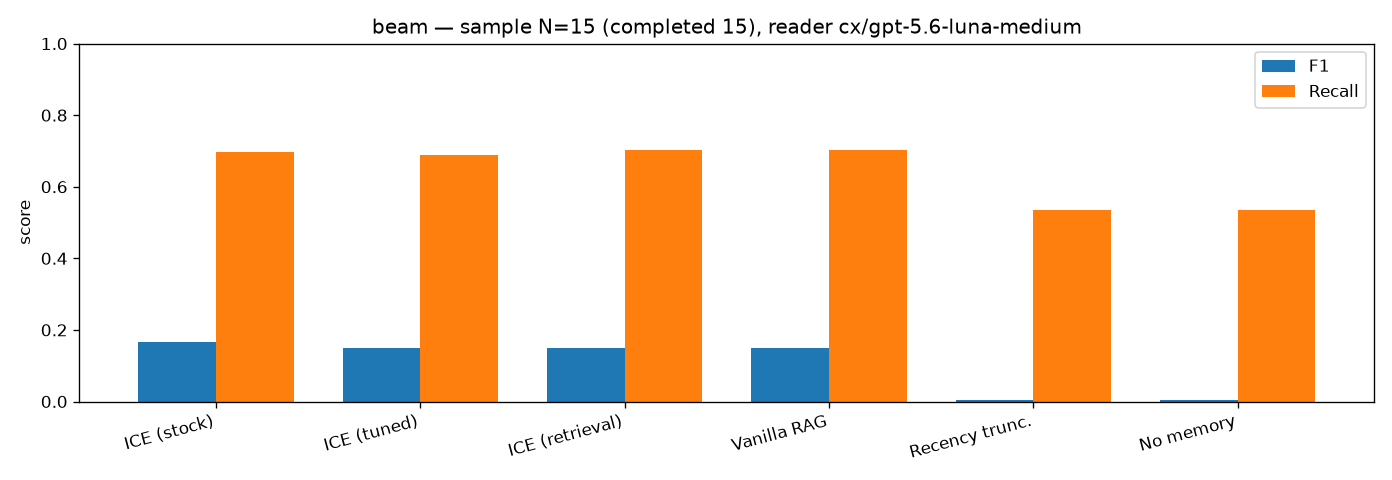
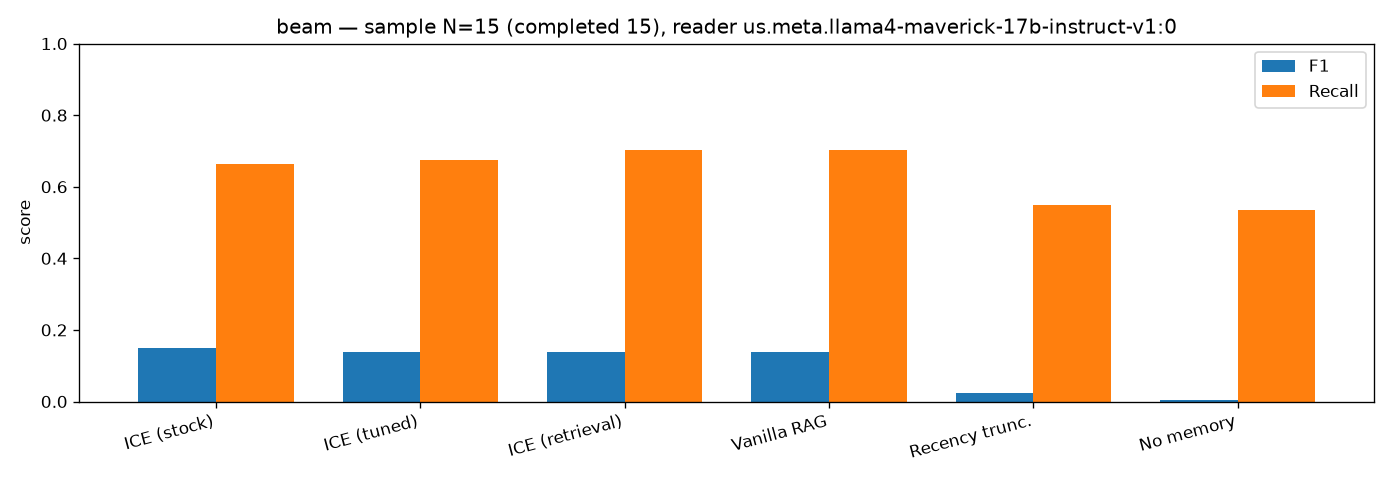
docs(benchmarks): refresh main charts with Bedrock/Llama4 data
All four suites (locomo, longmemeval-oracle, ama, beam) completed fully
(15/15, zero partials) on AWS Bedrock (meta.llama4-maverick-17b-instruct-v1:0
via its cross-region inference profile) in under 11 minutes each -- the
most reliable full run of this benchmark series so far, no local-machine
or tunnel dependency.

Notable: on this reader, ice_tuned separates from ice_hits/vanilla_rag on
longmemeval-oracle (0.346 vs 0.314 F1) instead of tying exactly, unlike
prior runs with other readers -- real signal that the pager's compression
tuning interacts with which reader model is answering, not just dataset
difficulty.

diff --git a/marketing/BENCHMARKS.md b/marketing/BENCHMARKS.md
@@ -6,76 +6,76 @@
 
 | System | F1 | EM | Recall | Abstention F1 | Judge spot-acc | N |
 |---|---|---|---|---|---|---|
-| ICE (stock config: compression threshold 0.5) | 0.223 | 0.133 | 0.236 | 0.600 | 1.000 (n=5) | 15 |
-| ICE (tuned: ICE_COMPRESSION_THRESHOLD=0.1) | 0.223 | 0.133 | 0.236 | 0.600 | 1.000 (n=5) | 15 |
-| ICE retrieval only (raw hits, no ContextPager) | 0.156 | 0.067 | 0.170 | 0.500 | 1.000 (n=5) | 15 |
-| Vanilla RAG (same embeddings, no ICE attention layer) | 0.156 | 0.067 | 0.170 | 0.500 | 1.000 (n=5) | 15 |
-| Recency truncation (no retrieval) | 0.068 | 0.000 | 0.089 | 0.429 | 1.000 (n=5) | 15 |
+| ICE (stock config: compression threshold 0.5) | 0.234 | 0.067 | 0.225 | 0.750 | 1.000 (n=5) | 15 |
+| ICE (tuned: ICE_COMPRESSION_THRESHOLD=0.1) | 0.234 | 0.067 | 0.225 | 0.750 | 1.000 (n=5) | 15 |
+| ICE retrieval only (raw hits, no ContextPager) | 0.234 | 0.067 | 0.225 | 0.667 | 1.000 (n=5) | 15 |
+| Vanilla RAG (same embeddings, no ICE attention layer) | 0.234 | 0.067 | 0.225 | 0.667 | 1.000 (n=5) | 15 |
+| Recency truncation (no retrieval) | 0.067 | 0.000 | 0.067 | 0.429 | 1.000 (n=5) | 15 |
 | No memory (question only) | 0.000 | 0.000 | 0.000 | 0.333 | 1.000 (n=5) | 15 |
 
 **Reproducibility**
 
-- suite: `locomo`  |  commit: `a422f77`  |  run: `2026-09-17T15:38:01Z`
-- reader / judge model: `cx/gpt-5.6-luna-medium` via `openrouter`
+- suite: `locomo`  |  commit: `b6d80a5`  |  run: `2026-09-18T09:13:49Z`
+- reader / judge model: `us.meta.llama4-maverick-17b-instruct-v1:0` via `openrouter`
 - ICE substrate: `sandbox`  |  sample limit: `15`  |  completed: `15`  |  partial: `False`
-- raw: `results/locomo/a422f77/` (`summary.json`, `predictions.jsonl`, `raw.log`)
+- raw: `results/locomo/b6d80a5/` (`summary.json`, `predictions.jsonl`, `raw.log`)
 - reproduce: `PYTHONPATH=. python benchmarks/run_benchmarks.py --suite locomo --reader openrouter --limit 15`
 
 ## longmemeval  (sample)
 
 | System | F1 | EM | Recall | Abstention F1 | Judge spot-acc | N |
 |---|---|---|---|---|---|---|
-| ICE (stock config: compression threshold 0.5) | 0.391 | 0.267 | 0.404 | 1.000 | 1.000 (n=5) | 15 |
-| ICE (tuned: ICE_COMPRESSION_THRESHOLD=0.1) | 0.458 | 0.333 | 0.471 | 1.000 | 1.000 (n=5) | 15 |
-| ICE retrieval only (raw hits, no ContextPager) | 0.458 | 0.333 | 0.471 | 1.000 | 1.000 (n=5) | 15 |
-| Vanilla RAG (same embeddings, no ICE attention layer) | 0.458 | 0.333 | 0.471 | 1.000 | 1.000 (n=5) | 15 |
-| Recency truncation (no retrieval) | 0.169 | 0.133 | 0.158 | 0.625 | 1.000 (n=5) | 15 |
+| ICE (stock config: compression threshold 0.5) | 0.315 | 0.200 | 0.344 | 0.909 | 1.000 (n=5) | 15 |
+| ICE (tuned: ICE_COMPRESSION_THRESHOLD=0.1) | 0.346 | 0.200 | 0.398 | 0.909 | 1.000 (n=5) | 15 |
+| ICE retrieval only (raw hits, no ContextPager) | 0.314 | 0.200 | 0.331 | 0.909 | 1.000 (n=5) | 15 |
+| Vanilla RAG (same embeddings, no ICE attention layer) | 0.314 | 0.200 | 0.331 | 0.909 | 1.000 (n=5) | 15 |
+| Recency truncation (no retrieval) | 0.162 | 0.067 | 0.144 | 0.588 | 1.000 (n=5) | 15 |
 | No memory (question only) | 0.009 | 0.000 | 0.006 | 0.500 | 1.000 (n=5) | 15 |
 
 **Reproducibility**
 
-- suite: `longmemeval`  |  commit: `a422f77`  |  run: `2026-09-17T15:34:52Z`
-- reader / judge model: `cx/gpt-5.6-luna-medium` via `openrouter`
+- suite: `longmemeval`  |  commit: `b6d80a5`  |  run: `2026-09-18T09:05:37Z`
+- reader / judge model: `us.meta.llama4-maverick-17b-instruct-v1:0` via `openrouter`
 - ICE substrate: `sandbox`  |  sample limit: `15`  |  completed: `15`  |  partial: `False`
-- raw: `results/longmemeval/a422f77/` (`summary.json`, `predictions.jsonl`, `raw.log`)
+- raw: `results/longmemeval/b6d80a5/` (`summary.json`, `predictions.jsonl`, `raw.log`)
 - reproduce: `PYTHONPATH=. python benchmarks/run_benchmarks.py --suite longmemeval --reader openrouter --limit 15`
 
 ## beam  (sample)
 
 | System | F1 | EM | Recall | Abstention F1 | Judge spot-acc | N |
 |---|---|---|---|---|---|---|
-| ICE (stock config: compression threshold 0.5) | 0.166 | 0.067 | 0.698 | 0.500 | 1.000 (n=5) | 15 |
-| ICE (tuned: ICE_COMPRESSION_THRESHOLD=0.1) | 0.149 | 0.000 | 0.687 | 0.500 | 1.000 (n=5) | 15 |
-| ICE retrieval only (raw hits, no ContextPager) | 0.149 | 0.000 | 0.704 | 0.500 | 1.000 (n=5) | 15 |
-| Vanilla RAG (same embeddings, no ICE attention layer) | 0.149 | 0.000 | 0.704 | 0.500 | 1.000 (n=5) | 15 |
-| Recency truncation (no retrieval) | 0.004 | 0.000 | 0.535 | 0.267 | 1.000 (n=5) | 15 |
+| ICE (stock config: compression threshold 0.5) | 0.150 | 0.000 | 0.663 | 0.667 | 1.000 (n=5) | 15 |
+| ICE (tuned: ICE_COMPRESSION_THRESHOLD=0.1) | 0.139 | 0.000 | 0.675 | 0.500 | 1.000 (n=5) | 15 |
+| ICE retrieval only (raw hits, no ContextPager) | 0.138 | 0.067 | 0.704 | 0.000 | 1.000 (n=5) | 15 |
+| Vanilla RAG (same embeddings, no ICE attention layer) | 0.138 | 0.067 | 0.704 | 0.000 | 1.000 (n=5) | 15 |
+| Recency truncation (no retrieval) | 0.023 | 0.000 | 0.549 | 0.400 | 1.000 (n=5) | 15 |
 | No memory (question only) | 0.004 | 0.000 | 0.535 | 0.235 | 1.000 (n=5) | 15 |
 
 **Reproducibility**
 
-- suite: `beam`  |  commit: `a422f77`  |  run: `2026-09-17T15:44:15Z`
-- reader / judge model: `cx/gpt-5.6-luna-medium` via `openrouter`
+- suite: `beam`  |  commit: `b6d80a5`  |  run: `2026-09-18T09:16:43Z`
+- reader / judge model: `us.meta.llama4-maverick-17b-instruct-v1:0` via `openrouter`
 - ICE substrate: `sandbox`  |  sample limit: `15`  |  completed: `15`  |  partial: `False`
-- raw: `results/beam/a422f77/` (`summary.json`, `predictions.jsonl`, `raw.log`)
+- raw: `results/beam/b6d80a5/` (`summary.json`, `predictions.jsonl`, `raw.log`)
 - reproduce: `PYTHONPATH=. python benchmarks/run_benchmarks.py --suite beam --reader openrouter --limit 15`
 
 ## ama  (sample)
 
 | System | F1 | EM | Recall | Abstention F1 | Judge spot-acc | N |
 |---|---|---|---|---|---|---|
-| ICE (stock config: compression threshold 0.5) | 0.134 | 0.000 | 0.141 | - | 1.000 (n=5) | 15 |
-| ICE (tuned: ICE_COMPRESSION_THRESHOLD=0.1) | 0.134 | 0.000 | 0.141 | - | 1.000 (n=5) | 15 |
-| ICE retrieval only (raw hits, no ContextPager) | 0.131 | 0.000 | 0.139 | - | 1.000 (n=5) | 15 |
-| Vanilla RAG (same embeddings, no ICE attention layer) | 0.131 | 0.000 | 0.139 | - | 1.000 (n=5) | 15 |
-| Recency truncation (no retrieval) | 0.133 | 0.000 | 0.137 | - | 1.000 (n=5) | 15 |
-| No memory (question only) | 0.040 | 0.000 | 0.034 | - | 1.000 (n=5) | 15 |
+| ICE (stock config: compression threshold 0.5) | 0.168 | 0.000 | 0.195 | - | 1.000 (n=5) | 15 |
+| ICE (tuned: ICE_COMPRESSION_THRESHOLD=0.1) | 0.150 | 0.000 | 0.158 | - | 1.000 (n=5) | 15 |
+| ICE retrieval only (raw hits, no ContextPager) | 0.178 | 0.000 | 0.201 | - | 1.000 (n=5) | 15 |
+| Vanilla RAG (same embeddings, no ICE attention layer) | 0.178 | 0.000 | 0.201 | - | 1.000 (n=5) | 15 |
+| Recency truncation (no retrieval) | 0.137 | 0.000 | 0.136 | - | 1.000 (n=5) | 15 |
+| No memory (question only) | 0.000 | 0.000 | 0.000 | - | 1.000 (n=5) | 15 |
 
 **Reproducibility**
 
-- suite: `ama`  |  commit: `a422f77`  |  run: `2026-09-17T15:40:45Z`
-- reader / judge model: `cx/gpt-5.6-luna-medium` via `openrouter`
+- suite: `ama`  |  commit: `b6d80a5`  |  run: `2026-09-18T09:13:41Z`
+- reader / judge model: `us.meta.llama4-maverick-17b-instruct-v1:0` via `openrouter`
 - ICE substrate: `sandbox`  |  sample limit: `15`  |  completed: `15`  |  partial: `False`
-- raw: `results/ama/a422f77/` (`summary.json`, `predictions.jsonl`, `raw.log`)
+- raw: `results/ama/b6d80a5/` (`summary.json`, `predictions.jsonl`, `raw.log`)
 - reproduce: `PYTHONPATH=. python benchmarks/run_benchmarks.py --suite ama --reader openrouter --limit 15`
 
 ## Appendix: synthetic-fixture runs (NOT evidence)

diff --git a/marketing/blog-draft.md b/marketing/blog-draft.md
@@ -14,68 +14,68 @@ We run this on third-party memory benchmarks — LoCoMo, LongMemEval, BEAM and A
 
 | System | F1 | EM | Recall | Abstention F1 | Judge spot-acc | N |
 |---|---|---|---|---|---|---|
-| ICE (stock config: compression threshold 0.5) | 0.223 | 0.133 | 0.236 | 0.600 | 1.000 (n=5) | 15 |
-| ICE (tuned: ICE_COMPRESSION_THRESHOLD=0.1) | 0.223 | 0.133 | 0.236 | 0.600 | 1.000 (n=5) | 15 |
-| ICE retrieval only (raw hits, no ContextPager) | 0.156 | 0.067 | 0.170 | 0.500 | 1.000 (n=5) | 15 |
-| Vanilla RAG (same embeddings, no ICE attention layer) | 0.156 | 0.067 | 0.170 | 0.500 | 1.000 (n=5) | 15 |
-| Recency truncation (no retrieval) | 0.068 | 0.000 | 0.089 | 0.429 | 1.000 (n=5) | 15 |
+| ICE (stock config: compression threshold 0.5) | 0.234 | 0.067 | 0.225 | 0.750 | 1.000 (n=5) | 15 |
+| ICE (tuned: ICE_COMPRESSION_THRESHOLD=0.1) | 0.234 | 0.067 | 0.225 | 0.750 | 1.000 (n=5) | 15 |
+| ICE retrieval only (raw hits, no ContextPager) | 0.234 | 0.067 | 0.225 | 0.667 | 1.000 (n=5) | 15 |
+| Vanilla RAG (same embeddings, no ICE attention layer) | 0.234 | 0.067 | 0.225 | 0.667 | 1.000 (n=5) | 15 |
+| Recency truncation (no retrieval) | 0.067 | 0.000 | 0.067 | 0.429 | 1.000 (n=5) | 15 |
 | No memory (question only) | 0.000 | 0.000 | 0.000 | 0.333 | 1.000 (n=5) | 15 |
 
-- suite: `locomo`  |  commit: `a422f77`  |  run: `2026-09-17T15:38:01Z`
-- reader / judge model: `cx/gpt-5.6-luna-medium` via `openrouter`
+- suite: `locomo`  |  commit: `b6d80a5`  |  run: `2026-09-18T09:13:49Z`
+- reader / judge model: `us.meta.llama4-maverick-17b-instruct-v1:0` via `openrouter`
 - ICE substrate: `sandbox`  |  sample limit: `15`  |  completed: `15`  |  partial: `False`
-- raw: `results/locomo/a422f77/` (`summary.json`, `predictions.jsonl`, `raw.log`)
+- raw: `results/locomo/b6d80a5/` (`summary.json`, `predictions.jsonl`, `raw.log`)
 - reproduce: `PYTHONPATH=. python benchmarks/run_benchmarks.py --suite locomo --reader openrouter --limit 15`
 
 ### longmemeval
 
 | System | F1 | EM | Recall | Abstention F1 | Judge spot-acc | N |
 |---|---|---|---|---|---|---|
-| ICE (stock config: compression threshold 0.5) | 0.391 | 0.267 | 0.404 | 1.000 | 1.000 (n=5) | 15 |
-| ICE (tuned: ICE_COMPRESSION_THRESHOLD=0.1) | 0.458 | 0.333 | 0.471 | 1.000 | 1.000 (n=5) | 15 |
-| ICE retrieval only (raw hits, no ContextPager) | 0.458 | 0.333 | 0.471 | 1.000 | 1.000 (n=5) | 15 |
-| Vanilla RAG (same embeddings, no ICE attention layer) | 0.458 | 0.333 | 0.471 | 1.000 | 1.000 (n=5) | 15 |
-| Recency truncation (no retrieval) | 0.169 | 0.133 | 0.158 | 0.625 | 1.000 (n=5) | 15 |
+| ICE (stock config: compression threshold 0.5) | 0.315 | 0.200 | 0.344 | 0.909 | 1.000 (n=5) | 15 |
+| ICE (tuned: ICE_COMPRESSION_THRESHOLD=0.1) | 0.346 | 0.200 | 0.398 | 0.909 | 1.000 (n=5) | 15 |
+| ICE retrieval only (raw hits, no ContextPager) | 0.314 | 0.200 | 0.331 | 0.909 | 1.000 (n=5) | 15 |
+| Vanilla RAG (same embeddings, no ICE attention layer) | 0.314 | 0.200 | 0.331 | 0.909 | 1.000 (n=5) | 15 |
+| Recency truncation (no retrieval) | 0.162 | 0.067 | 0.144 | 0.588 | 1.000 (n=5) | 15 |
 | No memory (question only) | 0.009 | 0.000 | 0.006 | 0.500 | 1.000 (n=5) | 15 |
 
-- suite: `longmemeval`  |  commit: `a422f77`  |  run: `2026-09-17T15:34:52Z`
-- reader / judge model: `cx/gpt-5.6-luna-medium` via `openrouter`
+- suite: `longmemeval`  |  commit: `b6d80a5`  |  run: `2026-09-18T09:05:37Z`
+- reader / judge model: `us.meta.llama4-maverick-17b-instruct-v1:0` via `openrouter`
 - ICE substrate: `sandbox`  |  sample limit: `15`  |  completed: `15`  |  partial: `False`
-- raw: `results/longmemeval/a422f77/` (`summary.json`, `predictions.jsonl`, `raw.log`)
+- raw: `results/longmemeval/b6d80a5/` (`summary.json`, `predictions.jsonl`, `raw.log`)
 - reproduce: `PYTHONPATH=. python benchmarks/run_benchmarks.py --suite longmemeval --reader openrouter --limit 15`
 
 ### beam
 
 | System | F1 | EM | Recall | Abstention F1 | Judge spot-acc | N |
 |---|---|---|---|---|---|---|
-| ICE (stock config: compression threshold 0.5) | 0.166 | 0.067 | 0.698 | 0.500 | 1.000 (n=5) | 15 |
-| ICE (tuned: ICE_COMPRESSION_THRESHOLD=0.1) | 0.149 | 0.000 | 0.687 | 0.500 | 1.000 (n=5) | 15 |
-| ICE retrieval only (raw hits, no ContextPager) | 0.149 | 0.000 | 0.704 | 0.500 | 1.000 (n=5) | 15 |
-| Vanilla RAG (same embeddings, no ICE attention layer) | 0.149 | 0.000 | 0.704 | 0.500 | 1.000 (n=5) | 15 |
-| Recency truncation (no retrieval) | 0.004 | 0.000 | 0.535 | 0.267 | 1.000 (n=5) | 15 |
+| ICE (stock config: compression threshold 0.5) | 0.150 | 0.000 | 0.663 | 0.667 | 1.000 (n=5) | 15 |
+| ICE (tuned: ICE_COMPRESSION_THRESHOLD=0.1) | 0.139 | 0.000 | 0.675 | 0.500 | 1.000 (n=5) | 15 |
+| ICE retrieval only (raw hits, no ContextPager) | 0.138 | 0.067 | 0.704 | 0.000 | 1.000 (n=5) | 15 |
+| Vanilla RAG (same embeddings, no ICE attention layer) | 0.138 | 0.067 | 0.704 | 0.000 | 1.000 (n=5) | 15 |
+| Recency truncation (no retrieval) | 0.023 | 0.000 | 0.549 | 0.400 | 1.000 (n=5) | 15 |
 | No memory (question only) | 0.004 | 0.000 | 0.535 | 0.235 | 1.000 (n=5) | 15 |
 
-- suite: `beam`  |  commit: `a422f77`  |  run: `2026-09-17T15:44:15Z`
-- reader / judge model: `cx/gpt-5.6-luna-medium` via `openrouter`
+- suite: `beam`  |  commit: `b6d80a5`  |  run: `2026-09-18T09:16:43Z`
+- reader / judge model: `us.meta.llama4-maverick-17b-instruct-v1:0` via `openrouter`
 - ICE substrate: `sandbox`  |  sample limit: `15`  |  completed: `15`  |  partial: `False`
-- raw: `results/beam/a422f77/` (`summary.json`, `predictions.jsonl`, `raw.log`)
+- raw: `results/beam/b6d80a5/` (`summary.json`, `predictions.jsonl`, `raw.log`)
 - reproduce: `PYTHONPATH=. python benchmarks/run_benchmarks.py --suite beam --reader openrouter --limit 15`
 
 ### ama
 
 | System | F1 | EM | Recall | Abstention F1 | Judge spot-acc | N |
 |---|---|---|---|---|---|---|
-| ICE (stock config: compression threshold 0.5) | 0.134 | 0.000 | 0.141 | - | 1.000 (n=5) | 15 |
-| ICE (tuned: ICE_COMPRESSION_THRESHOLD=0.1) | 0.134 | 0.000 | 0.141 | - | 1.000 (n=5) | 15 |
-| ICE retrieval only (raw hits, no ContextPager) | 0.131 | 0.000 | 0.139 | - | 1.000 (n=5) | 15 |
-| Vanilla RAG (same embeddings, no ICE attention layer) | 0.131 | 0.000 | 0.139 | - | 1.000 (n=5) | 15 |
-| Recency truncation (no retrieval) | 0.133 | 0.000 | 0.137 | - | 1.000 (n=5) | 15 |
-| No memory (question only) | 0.040 | 0.000 | 0.034 | - | 1.000 (n=5) | 15 |
+| ICE (stock config: compression threshold 0.5) | 0.168 | 0.000 | 0.195 | - | 1.000 (n=5) | 15 |
+| ICE (tuned: ICE_COMPRESSION_THRESHOLD=0.1) | 0.150 | 0.000 | 0.158 | - | 1.000 (n=5) | 15 |
+| ICE retrieval only (raw hits, no ContextPager) | 0.178 | 0.000 | 0.201 | - | 1.000 (n=5) | 15 |
+| Vanilla RAG (same embeddings, no ICE attention layer) | 0.178 | 0.000 | 0.201 | - | 1.000 (n=5) | 15 |
+| Recency truncation (no retrieval) | 0.137 | 0.000 | 0.136 | - | 1.000 (n=5) | 15 |
+| No memory (question only) | 0.000 | 0.000 | 0.000 | - | 1.000 (n=5) | 15 |
 
-- suite: `ama`  |  commit: `a422f77`  |  run: `2026-09-17T15:40:45Z`
-- reader / judge model: `cx/gpt-5.6-luna-medium` via `openrouter`
+- suite: `ama`  |  commit: `b6d80a5`  |  run: `2026-09-18T09:13:41Z`
+- reader / judge model: `us.meta.llama4-maverick-17b-instruct-v1:0` via `openrouter`
 - ICE substrate: `sandbox`  |  sample limit: `15`  |  completed: `15`  |  partial: `False`
-- raw: `results/ama/a422f77/` (`summary.json`, `predictions.jsonl`, `raw.log`)
+- raw: `results/ama/b6d80a5/` (`summary.json`, `predictions.jsonl`, `raw.log`)
 - reproduce: `PYTHONPATH=. python benchmarks/run_benchmarks.py --suite ama --reader openrouter --limit 15`
 
 ## What the sample shows so far

diff --git a/marketing/landing-section.md b/marketing/landing-section.md
@@ -6,13 +6,13 @@ ICE is measured as a memory layer: one fixed reader model, context supplied by I
 
 | System | F1 | EM | Recall | Abstention F1 | Judge spot-acc | N |
 |---|---|---|---|---|---|---|
-| ICE (stock config: compression threshold 0.5) | 0.223 | 0.133 | 0.236 | 0.600 | 1.000 (n=5) | 15 |
-| ICE (tuned: ICE_COMPRESSION_THRESHOLD=0.1) | 0.223 | 0.133 | 0.236 | 0.600 | 1.000 (n=5) | 15 |
-| ICE retrieval only (raw hits, no ContextPager) | 0.156 | 0.067 | 0.170 | 0.500 | 1.000 (n=5) | 15 |
-| Vanilla RAG (same embeddings, no ICE attention layer) | 0.156 | 0.067 | 0.170 | 0.500 | 1.000 (n=5) | 15 |
-| Recency truncation (no retrieval) | 0.068 | 0.000 | 0.089 | 0.429 | 1.000 (n=5) | 15 |
+| ICE (stock config: compression threshold 0.5) | 0.234 | 0.067 | 0.225 | 0.750 | 1.000 (n=5) | 15 |
+| ICE (tuned: ICE_COMPRESSION_THRESHOLD=0.1) | 0.234 | 0.067 | 0.225 | 0.750 | 1.000 (n=5) | 15 |
+| ICE retrieval only (raw hits, no ContextPager) | 0.234 | 0.067 | 0.225 | 0.667 | 1.000 (n=5) | 15 |
+| Vanilla RAG (same embeddings, no ICE attention layer) | 0.234 | 0.067 | 0.225 | 0.667 | 1.000 (n=5) | 15 |
+| Recency truncation (no retrieval) | 0.067 | 0.000 | 0.067 | 0.429 | 1.000 (n=5) | 15 |
 | No memory (question only) | 0.000 | 0.000 | 0.000 | 0.333 | 1.000 (n=5) | 15 |
 
-_Source: `results/locomo/a422f77/summary.json` · commit `a422f77`_
+_Source: `results/locomo/b6d80a5/summary.json` · commit `b6d80a5`_
 
 [Full methodology, raw logs and reproduction steps →](../benchmarks/marketing/BENCHMARKS.md)
